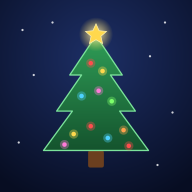
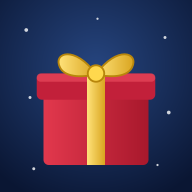
Icono: regalo rojo sobre azul noche

diff --git a/vite.config.ts b/vite.config.ts
@@ -16,8 +16,8 @@ export default defineConfig({
         lang: 'es',
         display: 'standalone',
         orientation: 'portrait',
-        background_color: '#0b1430',
-        theme_color: '#0b1430',
+        background_color: '#0a1633',
+        theme_color: '#0a1633',
         icons: [
           { src: 'pwa-192.png', sizes: '192x192', type: 'image/png' },
           { src: 'pwa-512.png', sizes: '512x512', type: 'image/png' },

diff --git a/README.md b/README.md
@@ -30,4 +30,4 @@ Abre `http://localhost:5173/calendario_adviento/?fecha=2026-12-10T18:00` para si
 ## Otros comandos
 
 - `npm run build`: compila en `dist/`.
-- `npm run iconos`: regenera los iconos de `public/`.
+- `npm run iconos -- regalo-noche`: regenera los iconos de `public/` (otros diseños en `scripts/disenos-icono.mjs`).
